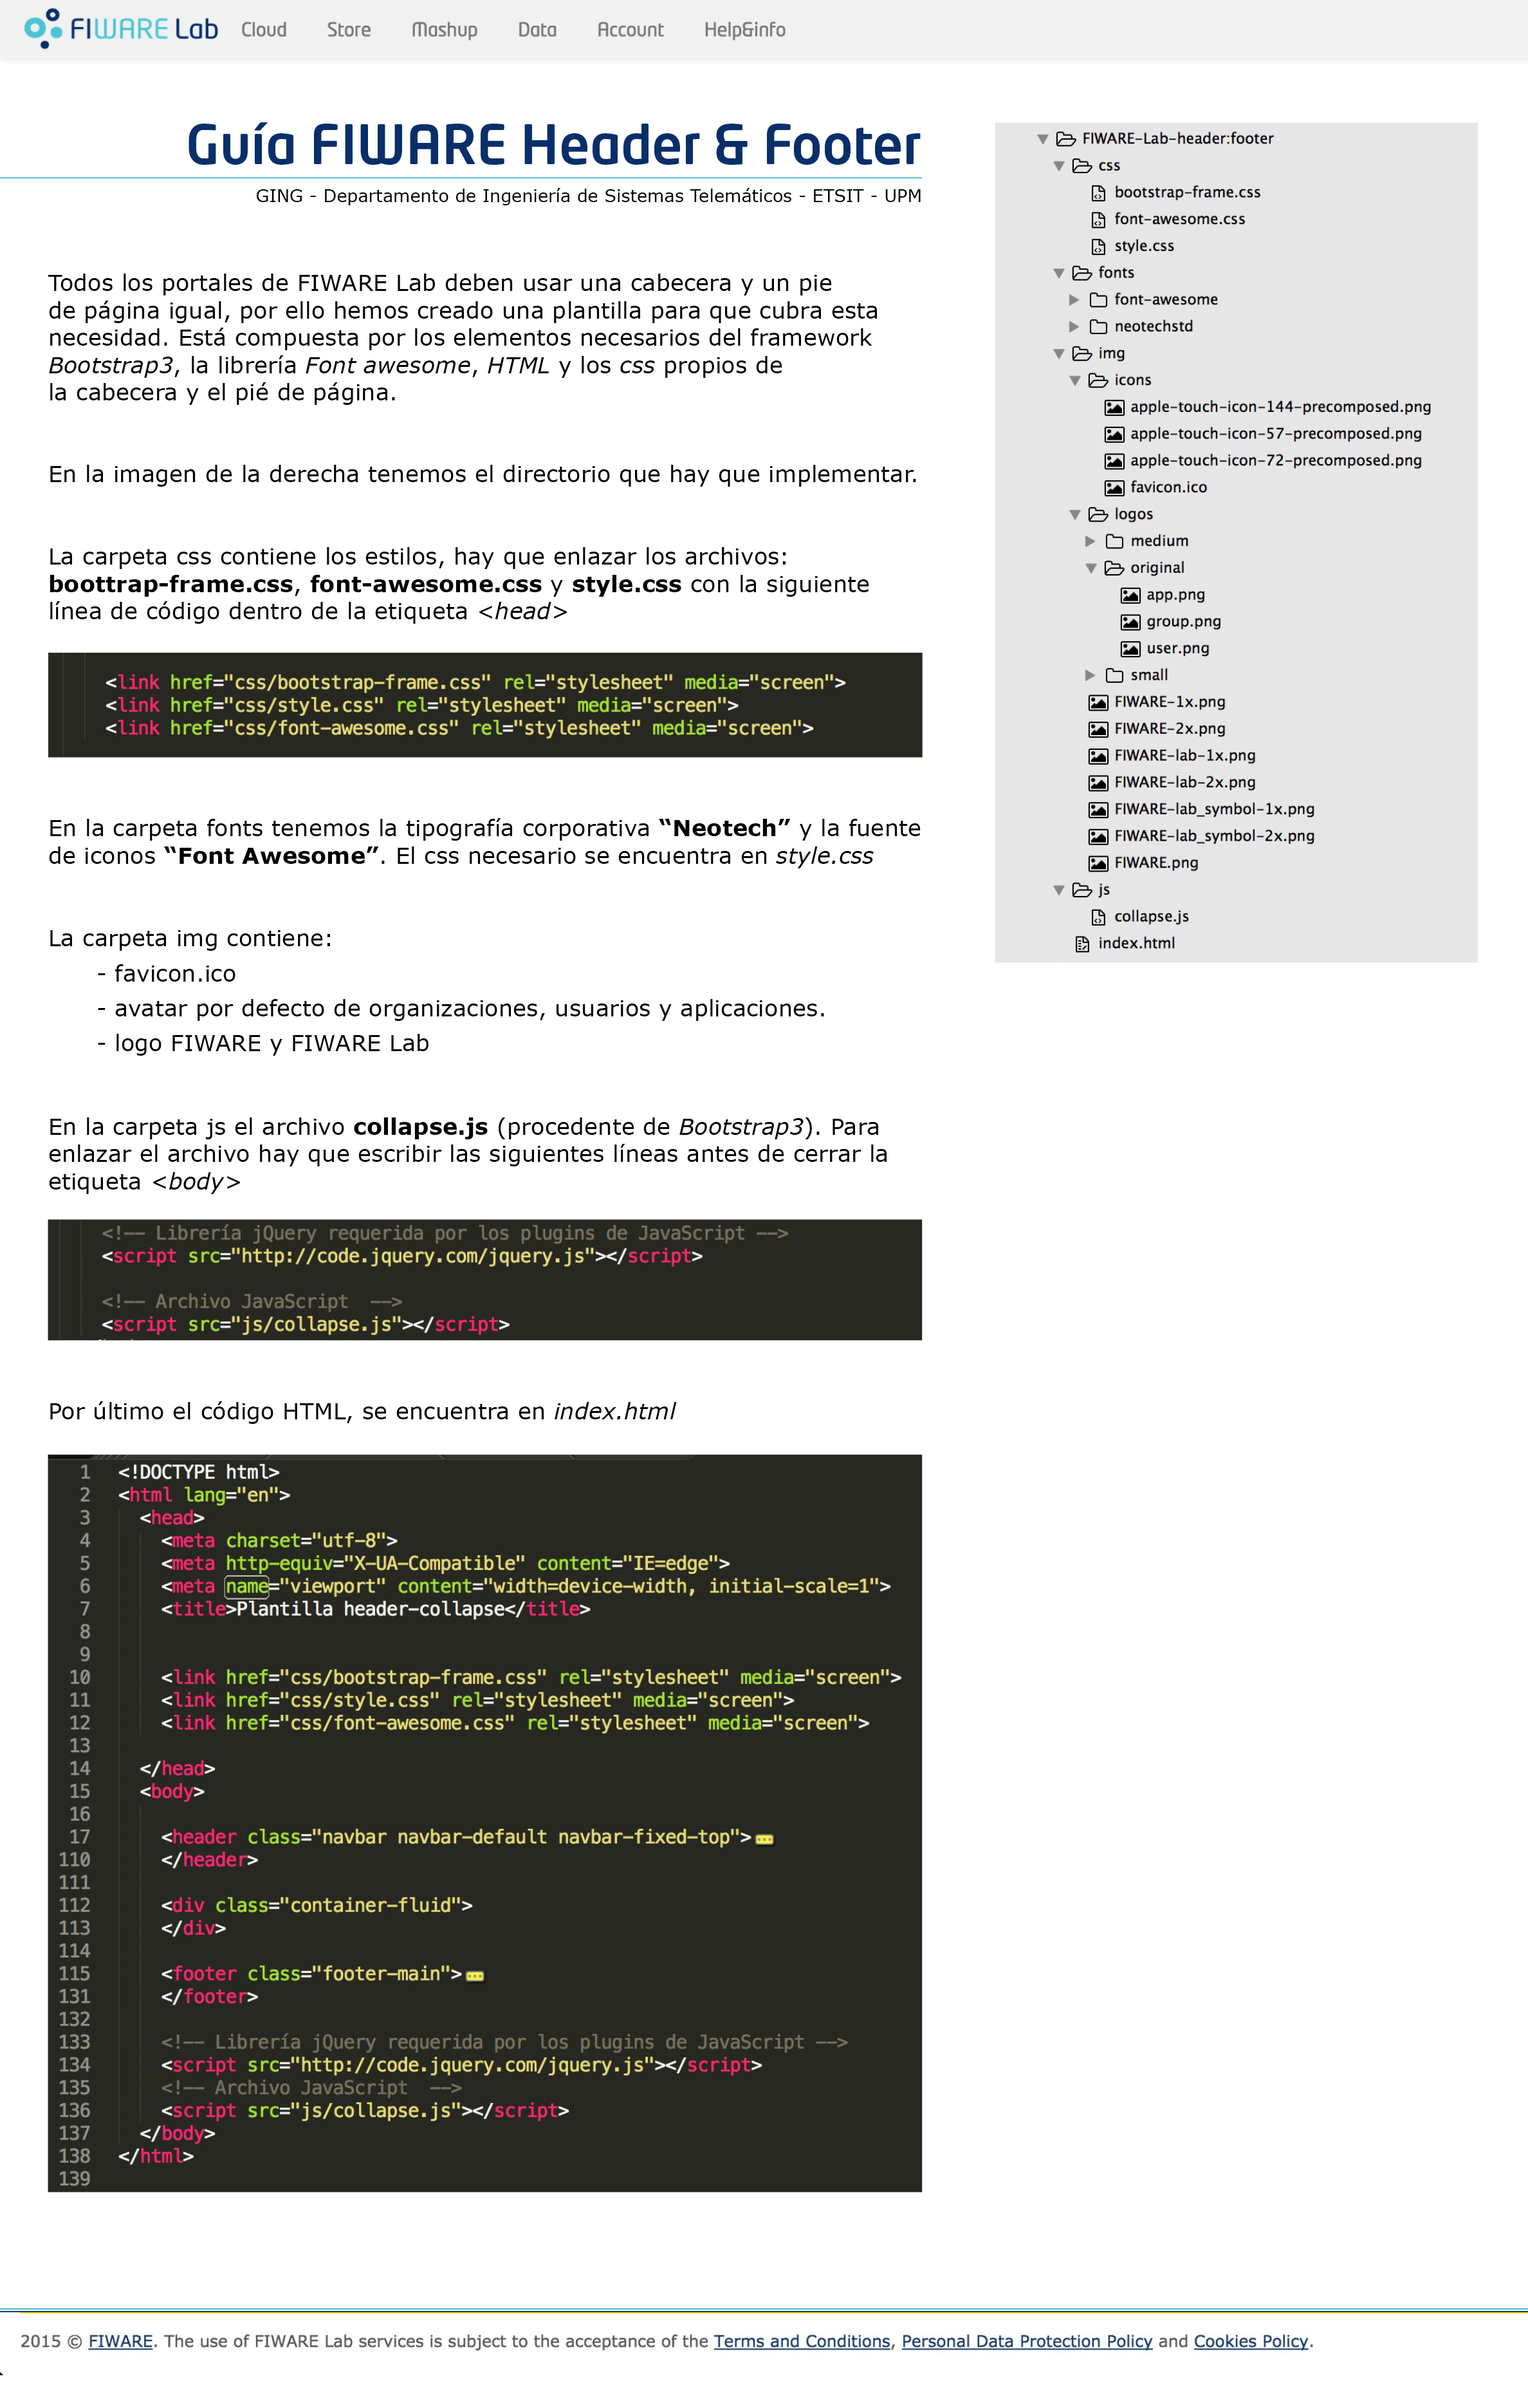
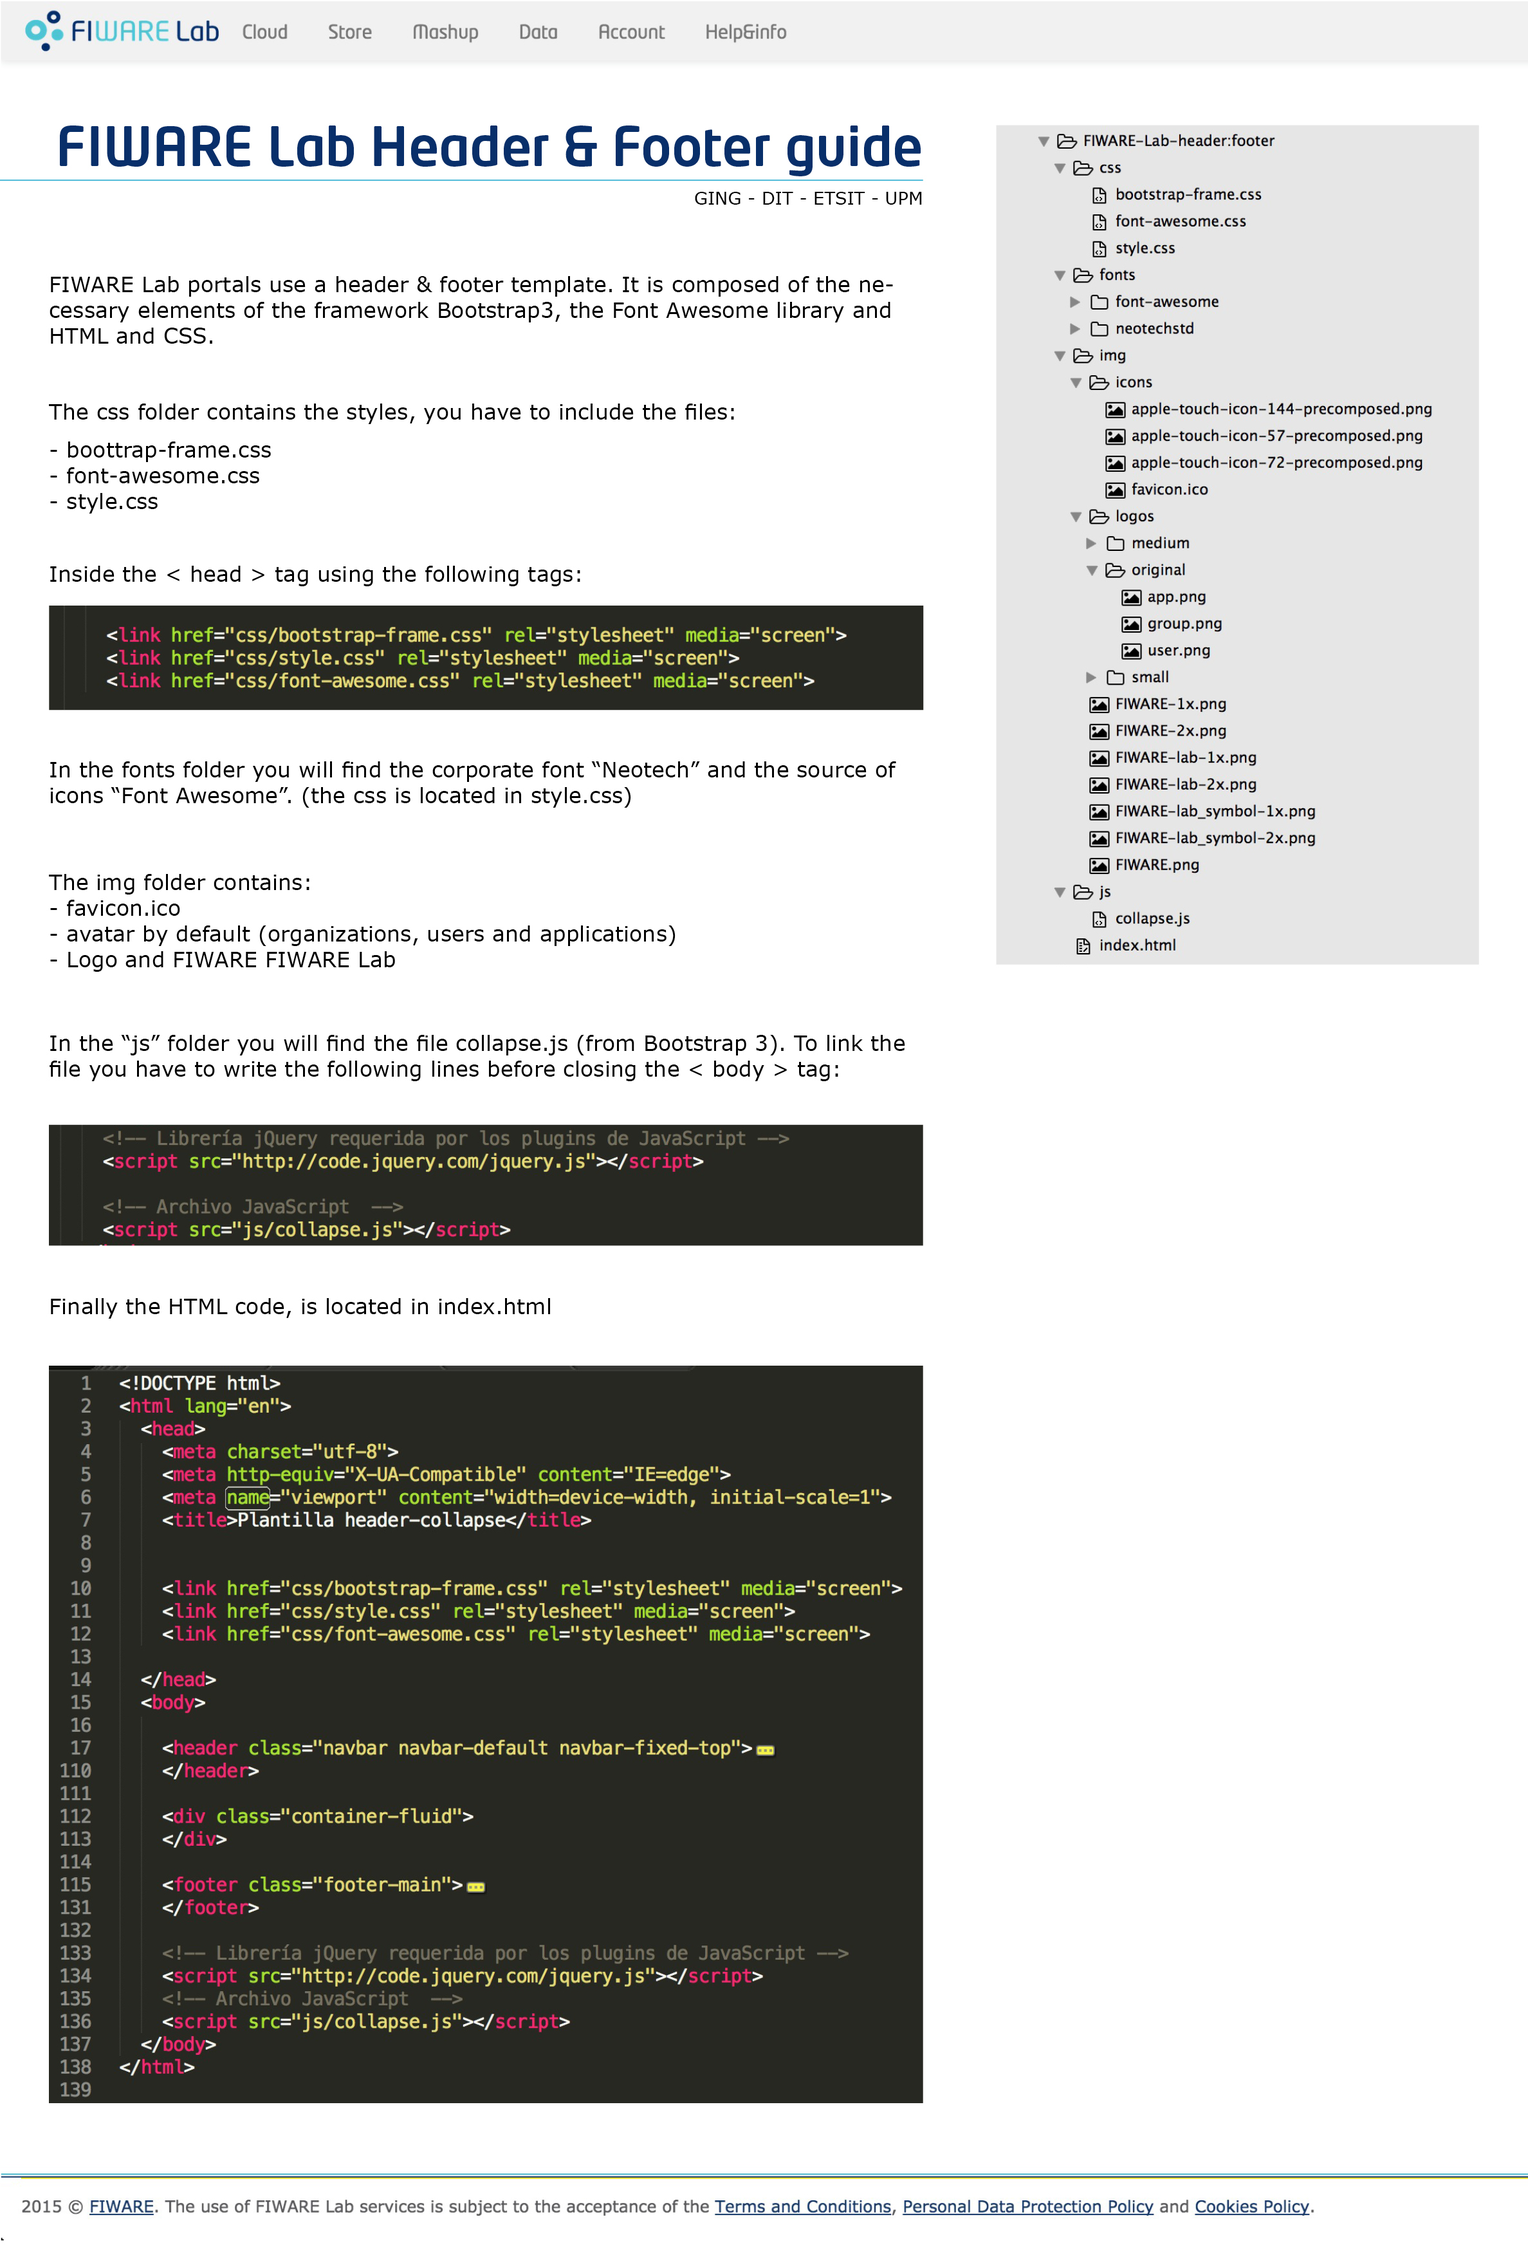
FIWARE-Lab_header_and_footer_guide english

Changed region(s): [[0.0, 0.0, 1.0, 0.9997], [0.6543, 0.0312, 0.9659, 0.4374]]

diff --git a/openstack_dashboard/static/library/FIWARE-Lab-header:footer/README.md b/openstack_dashboard/static/library/FIWARE-Lab-header:footer/README.md
@@ -1,37 +1,35 @@
-[Guía FIWARE Header & Footer] (https://github.com/ging/horizon/blob/design-header/openstack_dashboard/static/library/FIWARE-Lab-header:footer/README.jpg)
-
-Todos los portales de FIWARE Lab deben usar una cabecera y un pie de página igual, por ello hemos creado una plantilla para que cubra esta necesidad. Está compuesta por los elementos necesarios del framework Bootstrap3, la librería Font awesome, HTML y los css propios de la cabecera y el pié de página.
+[FIWARE Lab Header & Footer guide] (https://github.com/ging/horizon/blob/design-header/openstack_dashboard/static/library/FIWARE-Lab-header:footer/README.jpg)
 
 
+FIWARE Lab portals use a header & footer template. It is composed of the necessary elements of the framework Bootstrap3, the Font Awesome library and HTML and CSS.
 
-La carpeta css contiene los estilos, hay que enlazar los archivos: 
-  - boottrap-frame.css, 
-  - font-awesome.css,  
-  - style.css,
+The folder contains the CSS styles, you have to include the files:
 
-con las siguientes líneas de código dentro de la etiqueta < head >
+- boottrap-frame.css
+- font-awesome.css
+- style.css
+
+
+Inside the < head > tag using the following tags: 
 
   <link href="css/bootstrap-frame.css" rel="stylesheet" media="screen">
   <link href="css/style.css" rel="stylesheet" media="screen">
   <link href="css/font-awesome.css" rel="stylesheet" media="screen">
 
 
-
-En la carpeta fonts tenemos la tipografía corporativa “Neotech” y la fuente de iconos “Font Awesome”. El css necesario se encuentra en style.css
-
+In the fonts folder you will find the corporate font "Neotech" and the source of icons "Font Awesome". (the css is located in style.css)
 
 
-La carpeta img contiene: 
-  - favicon.ico
-  - avatar por defecto de organizaciones, usuarios y aplicaciones.
-  - logo FIWARE y FIWARE Lab
+The img folder contains: 
+- favicon.ico 
+- avatar by default (organizations, users and applications)
+- Logo and FIWARE FIWARE Lab
 
 
+In the “js” folder you will find the file collapse.js (from Bootstrap 3). To link the file you have to write the following lines before closing the < body > tag:
 
-En la carpeta js el archivo collapse.js (procedente de Bootstrap3). Para enlazar el archivo hay que escribir las siguientes líneas antes de cerrar la etiqueta < body >
-
-  <script src="http://code.jquery.com/jquery.js"></script>
-  <script src="js/collapse.js"></script>
+<script src="http://code.jquery.com/jquery.js"></script>
+<script src="js/collapse.js"></script>
 
 
-Por último el código HTML, se encuentra en index.html 
+Finally the HTML code, is located in index.html
